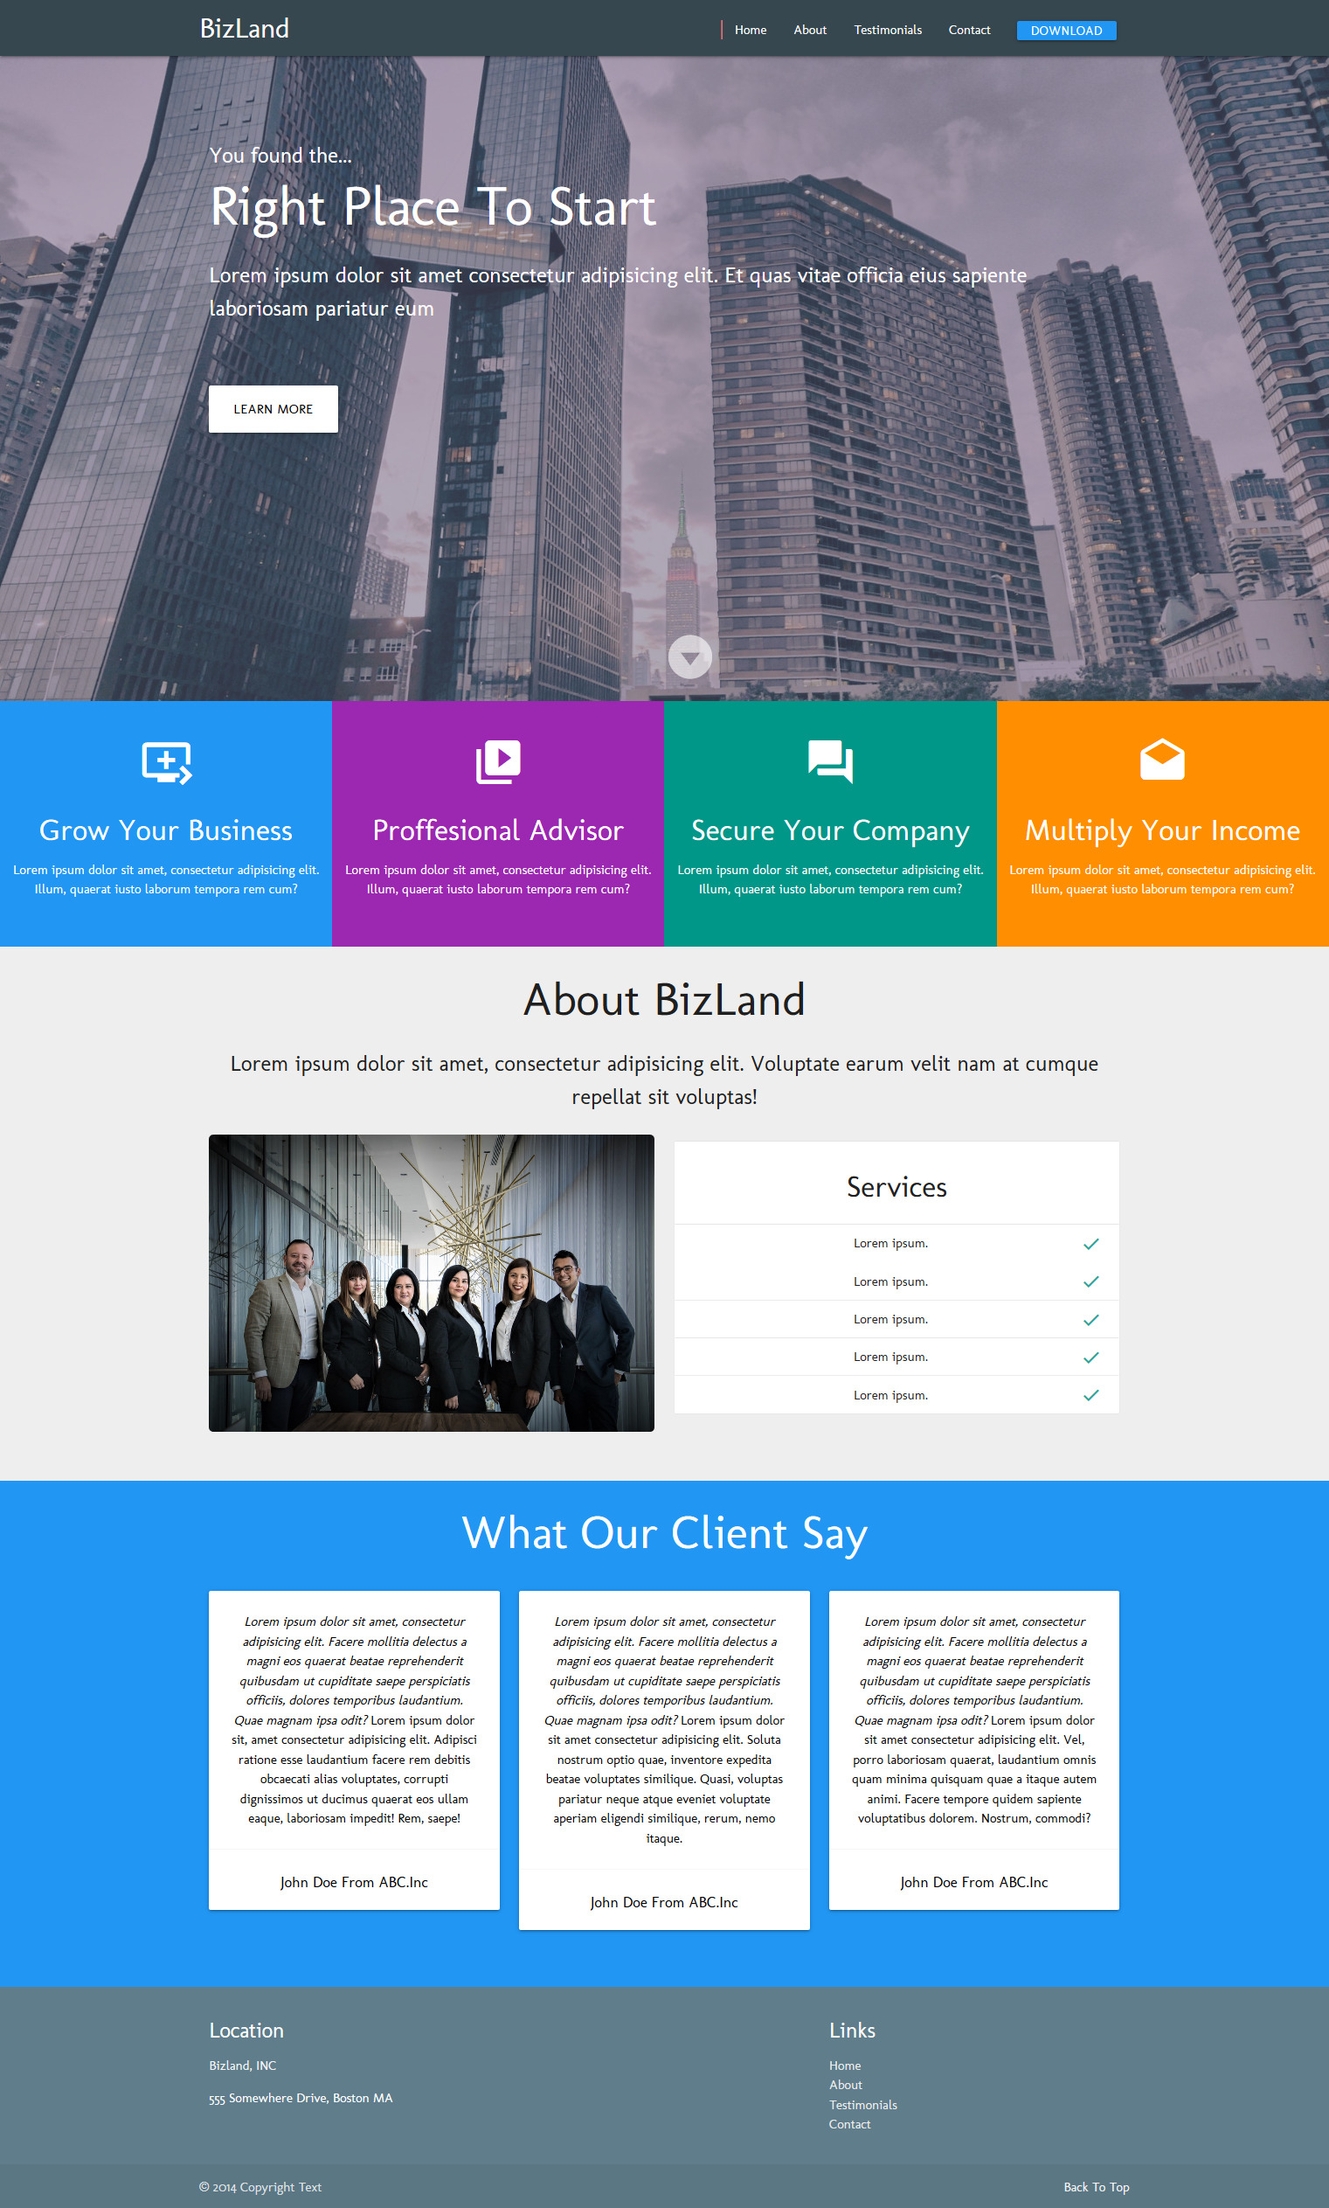
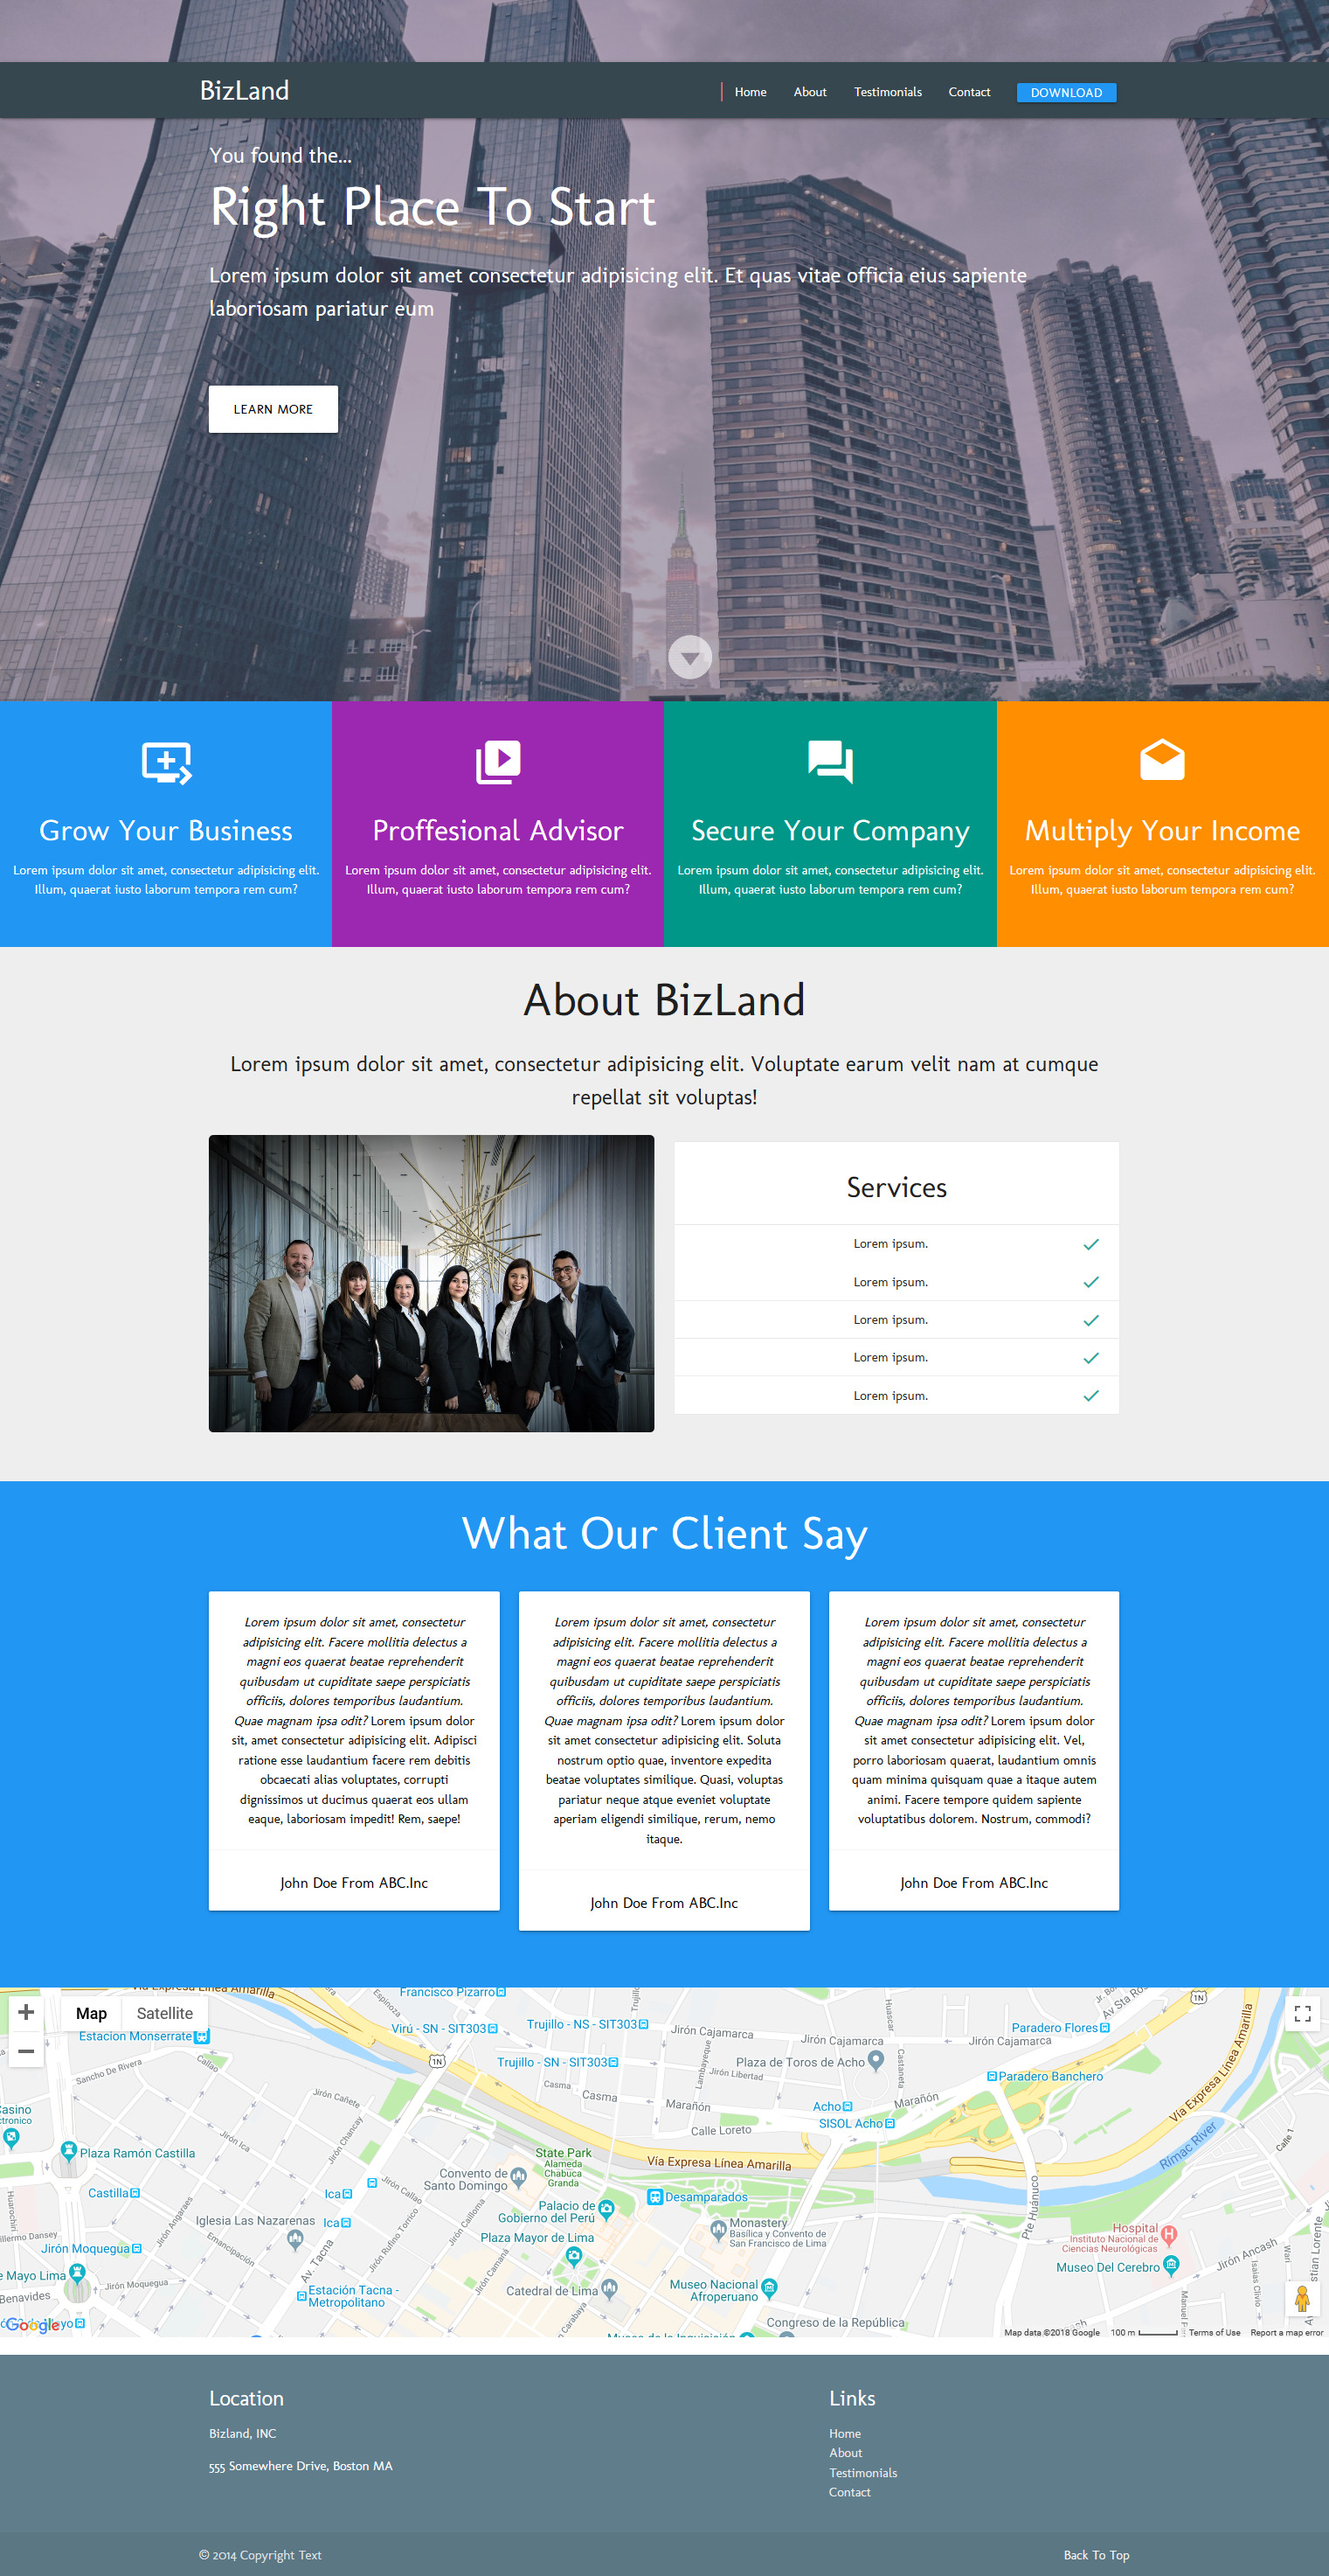
completed

diff --git a/src/index.html b/src/index.html
@@ -184,6 +184,11 @@
         </section>
         <section id="contact">
 
+            <div class="row">
+                <div id="map" style="height: 400px">
+                </div>
+            </div>
+            </div>
         </section>
         <footer class="page-footer blue-grey">
             <div class="container">
@@ -223,6 +228,22 @@
     <script src="https://ajax.googleapis.com/ajax/libs/jquery/3.3.1/jquery.min.js"></script>
     <script src="../node_modules/materialize-css/dist/js/materialize.min.js"></script>
     <script src="https://cdnjs.cloudflare.com/ajax/libs/waypoints/4.0.1/jquery.waypoints.min.js"></script>
+    <script src="http://maps.google.com/maps/api/js"></script>
+    <script src="https://cdnjs.cloudflare.com/ajax/libs/gmaps.js/0.4.25/gmaps.min.js"></script>
+    <script>
+        map = new GMaps({
+            div: '#map',
+            zoom: 16,
+            lat: -12.043333,
+            lng: -77.028333,
+            click: function (e) {
+                alert('click');
+            },
+            dragend: function (e) {
+                alert('dragend');
+            }
+        });
+    </script>
     <script>
         $(document).ready(function () {
             $('.sidenav').sidenav();
